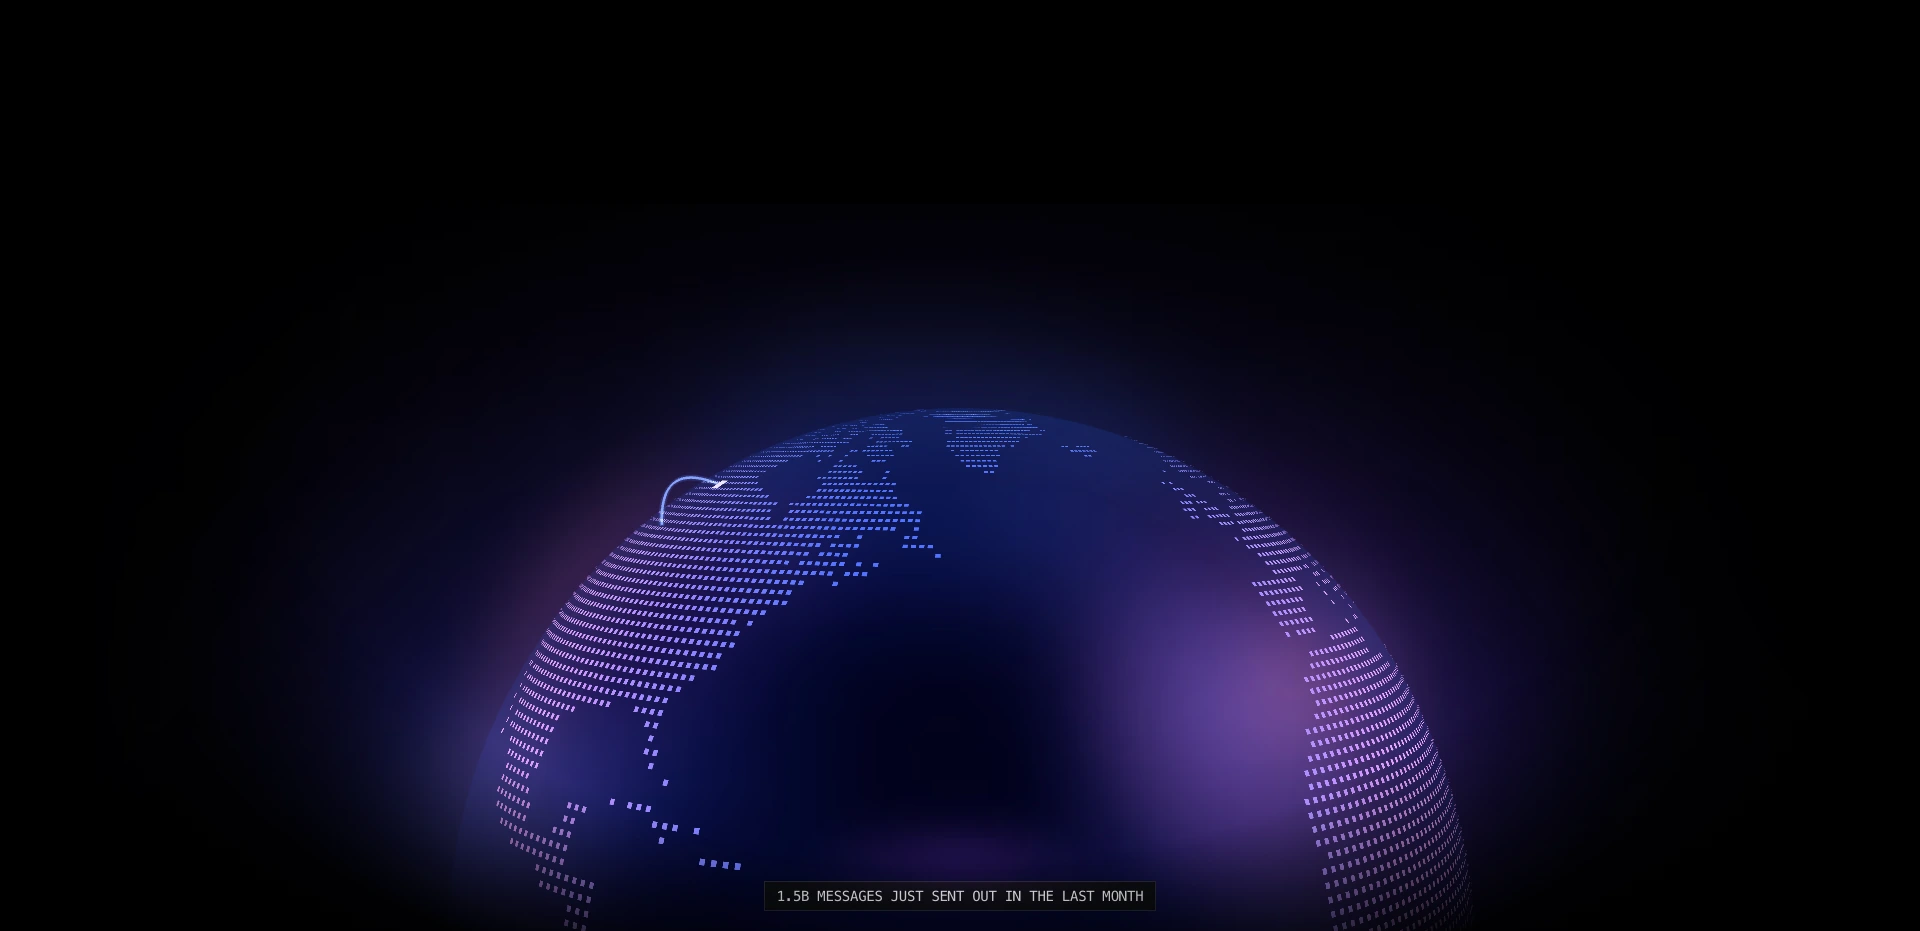
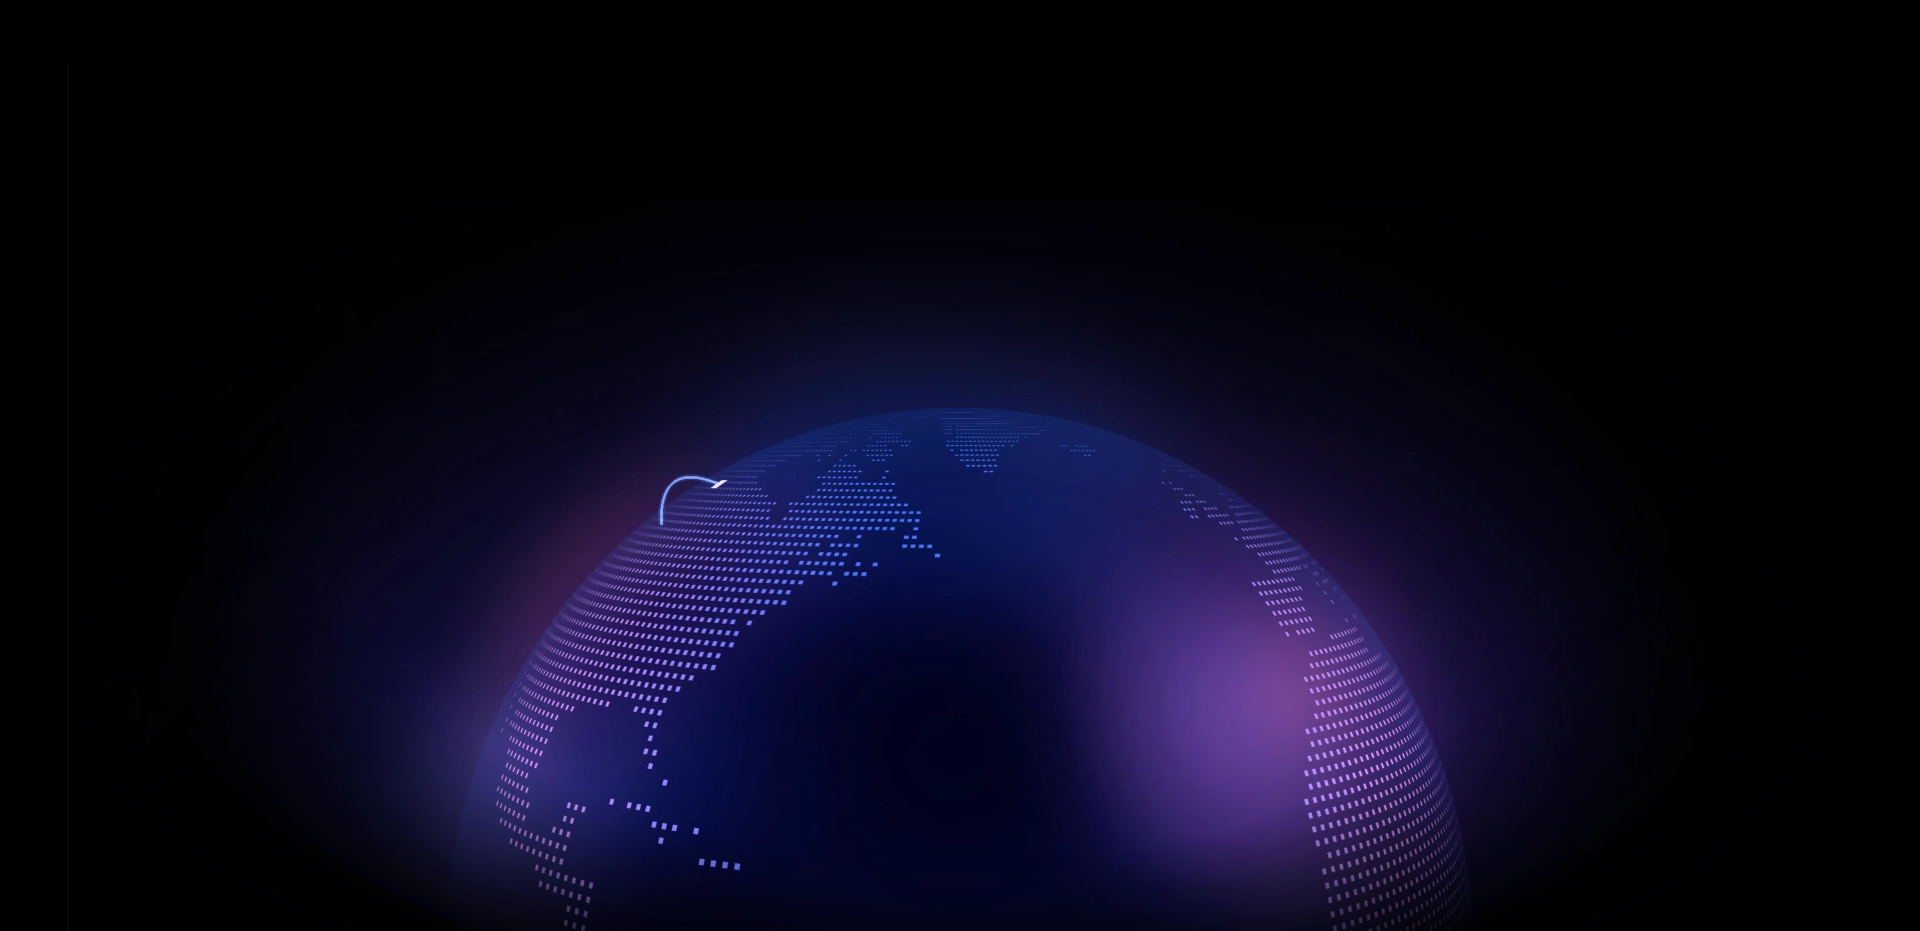
chore: adjustments

diff --git a/src/components/pages/home/globe/globe-runtime.tsx b/src/components/pages/home/globe/globe-runtime.tsx
@@ -36,7 +36,6 @@ import {
   GLOBE_STORY_SETTLE_MS,
 } from "./globe-data"
 import GlobeEventCard from "./globe-event-card"
-import GlobeMetric from "./globe-metric"
 import GlobeScene from "./globe-scene"
 import {
   GLOBE_AMBIENT_ROUTE_GAP_MS,
@@ -45,10 +44,8 @@ import {
 } from "./globe-scheduler"
 import {
   advanceGlobeRotation,
-  getActiveCardEvent,
   getGlobeCardDurationMs,
   getGlobeCardExitStartMs,
-  getGlobeCycleStartMs,
   getGlobeRotation,
 } from "./globe-timeline"
 import type {
@@ -301,18 +298,6 @@ function advanceGlobeInteraction(
   }
 }
 
-function getDebugTimeMs() {
-  if (process.env.NODE_ENV === "production" || typeof window === "undefined") {
-    return null
-  }
-
-  const rawValue = new URLSearchParams(window.location.search).get("globeTime")
-  if (rawValue === null || rawValue.trim() === "") return null
-
-  const value = Number(rawValue)
-  return Number.isFinite(value) && value >= 0 ? value : null
-}
-
 function createCardPlayback(
   event: IGlobeCardEvent,
   id: string,
@@ -337,9 +322,7 @@ export default function GlobeRuntime({
   const shouldReduceMotion = useReducedMotion()
   const rootRef = useRef<HTMLDivElement>(null)
   const canvasHostRef = useRef<HTMLDivElement>(null)
-  const debugTimeMsRef = useRef(getDebugTimeMs())
-  const initialTimeMs = debugTimeMsRef.current ?? GLOBE_INITIAL_TIME_MS
-  const debugCycleStartMs = getGlobeCycleStartMs(initialTimeMs)
+  const initialTimeMs = GLOBE_INITIAL_TIME_MS
   const elapsedRef = useRef(initialTimeMs)
   const interactionRef = useRef<IGlobeInteractionState>({
     autoBlend: 1,
@@ -354,25 +337,16 @@ export default function GlobeRuntime({
   const previousScheduleRotationRef = useRef<number | null>(
     interactionRef.current.rotation
   )
-  const debugCard = getActiveCardEvent(initialTimeMs)
-  const bootstrapEvents =
-    debugTimeMsRef.current === null
-      ? GLOBE_CARD_EVENTS.filter((event) => (event.initialRouteLeadMs ?? 0) > 0)
-      : []
+  const bootstrapEvents = GLOBE_CARD_EVENTS.filter(
+    (event) => (event.initialRouteLeadMs ?? 0) > 0
+  )
   const routePlaybackRef = useRef<Record<string, number>>(
-    debugTimeMsRef.current === null
-      ? Object.fromEntries(
-          bootstrapEvents.map((event) => [
-            event.routeId,
-            -(event.initialRouteLeadMs ?? 0),
-          ])
-        )
-      : Object.fromEntries(
-          GLOBE_ROUTES.map((route) => [
-            route.id,
-            debugCycleStartMs + route.startMs,
-          ])
-        )
+    Object.fromEntries(
+      bootstrapEvents.map((event) => [
+        event.routeId,
+        -(event.initialRouteLeadMs ?? 0),
+      ])
+    )
   )
   const lastCardCompletedAtRef = useRef<Record<string, number>>({})
   const lastAmbientRouteStartedAtRef = useRef<Record<string, number>>({})
@@ -390,21 +364,13 @@ export default function GlobeRuntime({
   const hasStartedPlaybackRef = useRef(false)
   const initialCardPlaybacksRef = useRef<IActiveCardPlayback[] | null>(null)
   if (initialCardPlaybacksRef.current === null) {
-    initialCardPlaybacksRef.current = debugCard
-      ? [
-          createCardPlayback(
-            debugCard,
-            `${debugCard.id}:debug`,
-            initialTimeMs - (debugCycleStartMs + debugCard.startMs)
-          ),
-        ]
-      : bootstrapEvents.map((event, index) =>
-          createCardPlayback(
-            event,
-            `${event.id}:bootstrap-${index}`,
-            (event.initialRouteLeadMs ?? 0) - GLOBE_STORY_CARD_DELAY_MS
-          )
-        )
+    initialCardPlaybacksRef.current = bootstrapEvents.map((event, index) =>
+      createCardPlayback(
+        event,
+        `${event.id}:bootstrap-${index}`,
+        (event.initialRouteLeadMs ?? 0) - GLOBE_STORY_CARD_DELAY_MS
+      )
+    )
   }
   const [activeCardPlaybacks, setActiveCardPlaybacks] = useState<
     IActiveCardPlayback[]
@@ -524,12 +490,7 @@ export default function GlobeRuntime({
   }, [playbackActive])
 
   useEffect(() => {
-    if (
-      debugTimeMsRef.current !== null ||
-      !playbackActive ||
-      shouldReduceMotion ||
-      failed
-    ) {
+    if (!playbackActive || shouldReduceMotion || failed) {
       return
     }
 
@@ -882,11 +843,7 @@ export default function GlobeRuntime({
             >
               <GlobeViewportCamera virtualViewportRef={rootRef} />
               <GlobePerformanceMonitor
-                enabled={
-                  playbackEnabled &&
-                  debugTimeMsRef.current === null &&
-                  dprCap > 1
-                }
+                enabled={playbackEnabled && dprCap > 1}
                 onSustainedSlowFrames={handleSustainedSlowFrames}
               />
               <GlobeContextMonitor onContextLost={handleContextLost} />
@@ -916,10 +873,6 @@ export default function GlobeRuntime({
             y={playback.anchorY}
           />
         ))}
-      </div>
-
-      <div className="absolute right-0 bottom-6 left-0 flex justify-center">
-        <GlobeMetric />
       </div>
     </div>
   )

diff --git a/src/components/pages/home/hero-globe.tsx b/src/components/pages/home/hero-globe.tsx
@@ -111,7 +111,6 @@ export default function HeroGlobe() {
     },
     [runtimeReady]
   )
-
   useEffect(() => {
     if (isMobile) {
       setPlaybackEnabled(false)
@@ -140,19 +139,12 @@ export default function HeroGlobe() {
       className="absolute bottom-18 left-1/2 z-0 aspect-[1520/745] w-[180%] max-w-480 -translate-x-1/2 overflow-hidden md:bottom-21.5 md:aspect-[1920/931] lg:w-480 lg:overflow-visible 2xl:-top-16 2xl:bottom-auto"
     >
       <div className="pointer-events-none absolute top-0 left-1/2 hidden h-full w-[max(120rem,100vw)] -translate-x-1/2 bg-[radial-gradient(ellipse_70rem_30rem_at_50%_72%,rgba(76,63,218,0.22),rgba(30,35,101,0.08)_54%,transparent_80%)] lg:block" />
-      <div
-        className="pointer-events-none absolute top-0 left-1/2 hidden h-full w-[max(120rem,100vw)] -translate-x-1/2 bg-center bg-repeat opacity-10 mix-blend-overlay lg:block"
-        style={{
-          backgroundImage: `url("${noiseLight.src}")`,
-          backgroundSize: "256px 256px",
-        }}
-      />
 
       <div
         className={`pointer-events-none absolute inset-0 md:z-20 lg:right-auto lg:left-1/2 lg:w-[max(120rem,100vw)] lg:-translate-x-1/2 ${playbackEnabled ? "invisible opacity-0" : runtimeReady ? "will-change-opacity opacity-0 transition-opacity duration-300 ease-out" : "will-change-opacity opacity-100"}`}
         onTransitionEnd={handlePosterTransitionEnd}
       >
-        <picture className="absolute inset-0 block size-full lg:right-auto lg:left-1/2 lg:w-480 lg:-translate-x-1/2 lg:[mask-image:linear-gradient(to_right,transparent_0%,black_10%,black_90%,transparent_100%)]">
+        <picture className="absolute inset-0 block size-full lg:right-auto lg:left-1/2 lg:w-480 lg:-translate-x-1/2">
           <source media="(min-width: 768px)" srcSet={heroPoster.src} />
           <img
             alt=""
@@ -165,20 +157,21 @@ export default function HeroGlobe() {
             width={1520}
           />
         </picture>
-        <div
-          className="pointer-events-none absolute inset-0 hidden bg-center bg-repeat opacity-[0.07] mix-blend-overlay lg:block"
-          style={{
-            backgroundImage: `url("${noiseLight.src}")`,
-            backgroundSize: "256px 256px",
-          }}
-        />
       </div>
 
-      {isMobile ? (
-        <div className="absolute right-0 bottom-5 left-0 z-10 flex justify-center">
-          <GlobeMetric compact />
-        </div>
-      ) : shouldLoadRuntime && !animationUnavailable ? (
+      <div
+        className="pointer-events-none absolute top-0 left-1/2 hidden h-full w-[max(120rem,100vw)] -translate-x-1/2 bg-center bg-repeat opacity-10 mix-blend-overlay lg:block"
+        style={{
+          backgroundImage: `url("${noiseLight.src}")`,
+          backgroundSize: "256px 256px",
+        }}
+      />
+
+      <div className="absolute bottom-5 left-1/2 z-30 -translate-x-1/2 justify-center md:bottom-6">
+        <GlobeMetric />
+      </div>
+
+      {!isMobile && shouldLoadRuntime && !animationUnavailable ? (
         <div className="absolute inset-0 overflow-hidden mask-radial-from-black mask-radial-from-60% mask-radial-to-transparent mask-radial-to-85% mask-ellipse [mask-size:80%_100%] mask-top lg:z-10">
           <Image
             alt=""

diff --git a/src/components/pages/home/globe/globe-metric.tsx b/src/components/pages/home/globe/globe-metric.tsx
@@ -1,17 +1,6 @@
-import { cn } from "@/lib/utils"
-
-interface IGlobeMetricProps {
-  compact?: boolean
-}
-
-export default function GlobeMetric({ compact = false }: IGlobeMetricProps) {
+export default function GlobeMetric() {
   return (
-    <div
-      className={cn(
-        "relative flex items-center justify-center border border-gray-20 bg-[#0B0C0E] font-mono leading-none tracking-tighter text-white uppercase",
-        compact ? "h-6 px-2 text-[10px] sm:text-xs" : "h-7.5 px-3 text-sm"
-      )}
-    >
+    <div className="relative flex h-6 w-fit items-center justify-center border border-gray-20 bg-[#0B0C0E] px-2 font-mono text-[10px] leading-none tracking-tighter text-white uppercase sm:text-xs md:h-7.5 md:px-3 md:text-sm">
       <span className="absolute inset-x-8 -top-16 h-20 bg-[radial-gradient(ellipse_at_center,rgba(159,74,255,0.24),transparent_70%)] blur-lg" />
       <span className="relative">
         1.5b messages just sent out in the last month

diff --git a/src/components/pages/home/globe/globe-shaders.ts b/src/components/pages/home/globe/globe-shaders.ts
@@ -41,14 +41,15 @@ export const LAND_FRAGMENT_SHADER = /* glsl */ `
   varying vec2 vUv;
 
   void main() {
-    vec2 centeredCoord = abs(vUv - vec2(0.5));
-    float distanceFromCenter = max(centeredCoord.x, centeredCoord.y);
-    float pointMask = 1.0 - smoothstep(0.45, 0.51, distanceFromCenter);
+    vec2 edgeDistance = vec2(0.5) - abs(vUv - vec2(0.5));
+    vec2 pixelWidth = fwidth(vUv);
+    vec2 coverage = smoothstep(vec2(0.0), pixelWidth, edgeDistance);
+    float pointMask = coverage.x * coverage.y;
     float edgeColor = smoothstep(0.12, 0.9, abs(vHorizontal - 0.5) * 2.0);
     vec3 blue = vec3(0.32, 0.45, 1.0);
     vec3 pink = vec3(0.94, 0.63, 1.0);
     vec3 color = mix(blue, pink, clamp(edgeColor + vSeed * 0.08, 0.0, 1.0));
-    float alpha = pointMask * mix(0.16, 1.0, vFacing);
+    float alpha = pointMask;
 
     if (alpha < 0.01) discard;
     gl_FragColor = vec4(color, alpha);
